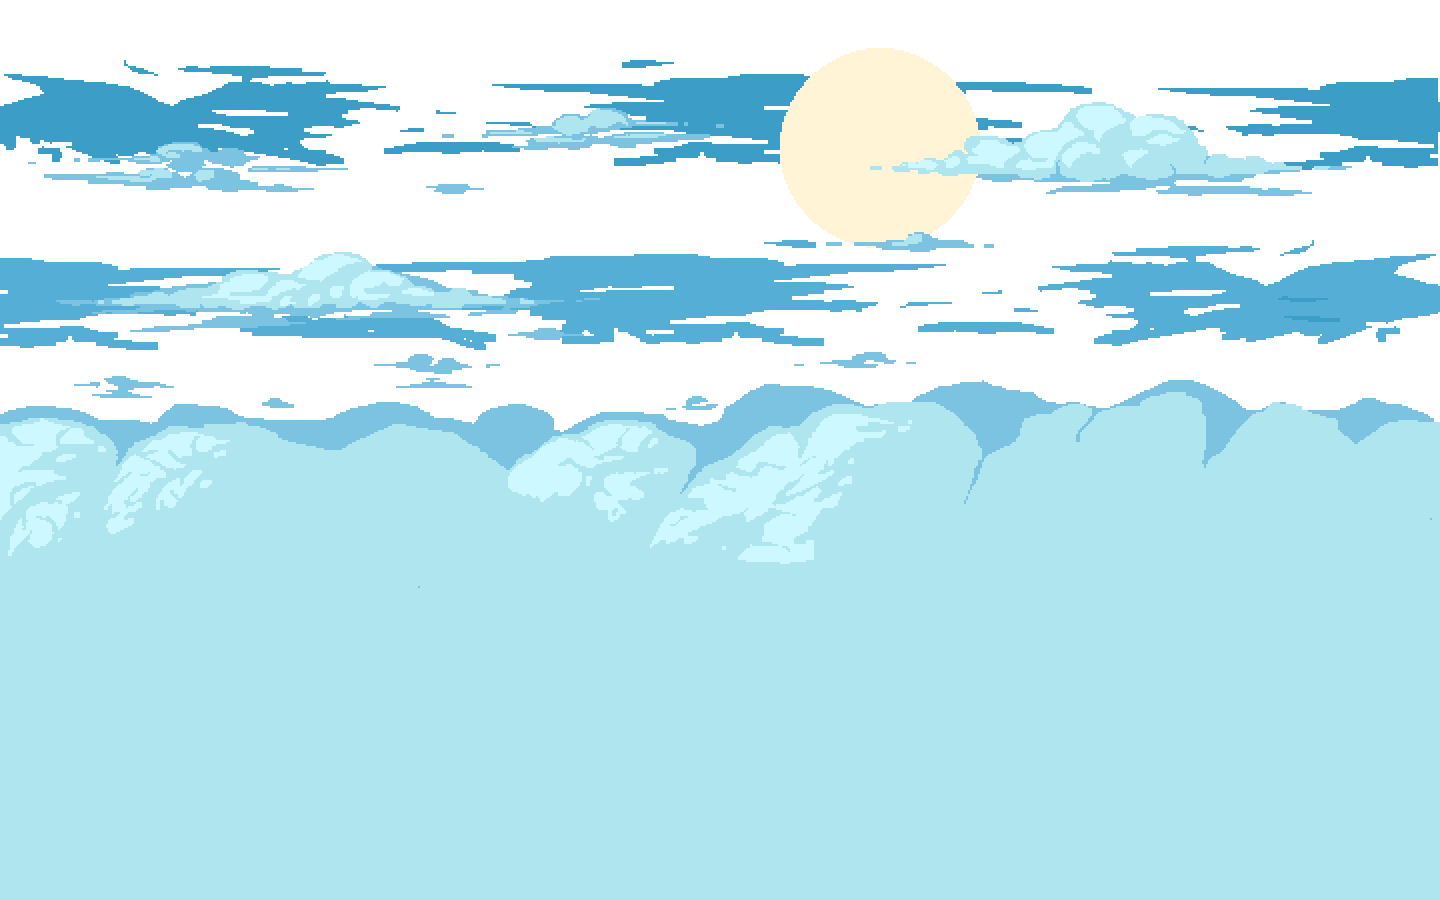
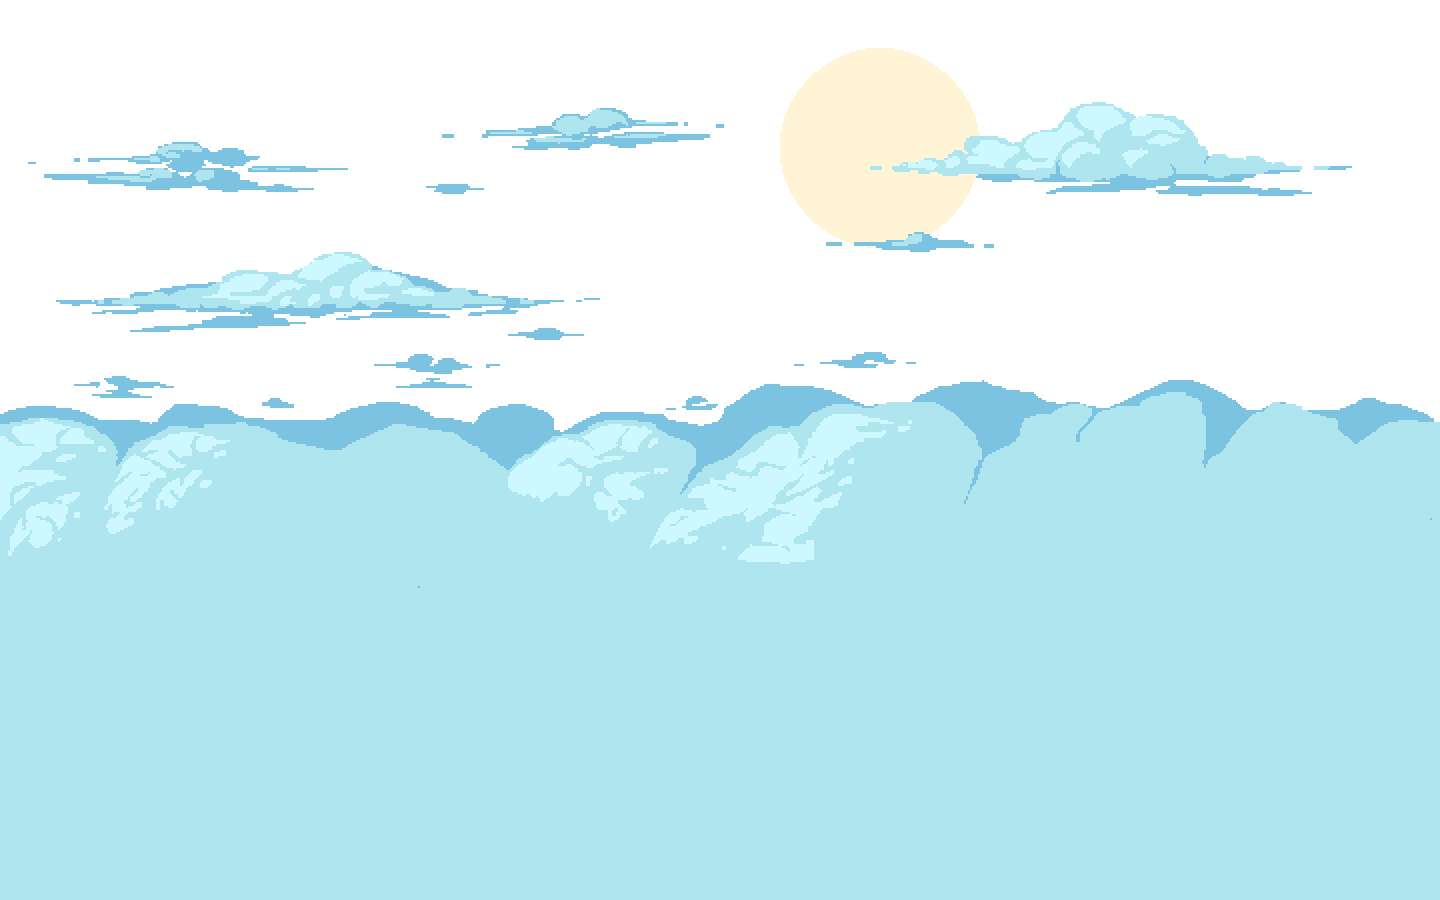
Some changes

diff --git a/Classes/MainScene.cpp b/Classes/MainScene.cpp
@@ -8,6 +8,9 @@
 #include "IdleBehaviour.h"
 #include "Enemy.h"
 
+#include "imgui/CCIMGUIGLViewImpl.h"
+#include "imgui/CCImGuiLayer.h"
+#include "imgui/CCIMGUI.h"
 USING_NS_CC;
 
 Player* MainScene::getPlayer() {
@@ -32,6 +35,21 @@ bool MainScene::init() {
     const auto visibleSize = Director::getInstance()->getVisibleSize();
     const Vec2 origin = Director::getInstance()->getVisibleOrigin();
 
+    _background = Sprite::create("images/Sky1.png");
+    _background1 = Sprite::create("images/Sky2.png");
+    _background1->setScaleX(1.2);
+    _background2 = Sprite::create("images/Mounts1.png");
+    _background2->setScaleX(1.35);
+    _background3 = Sprite::create("images/Mounts2.png");
+    _background3->setScaleX(1.5);
+    addChild(_background);
+    addChild(_background1);
+    addChild(_background2);
+    addChild(_background3);
+    _background->setPosition({ 9000, 24000 });
+    _background1->setPosition({ 9000, 24000 });
+    _background2->setPosition({ 9000, 24000 });
+    _background3->setPosition({ 9000, 24000 });
     //DrawNode* background = DrawNode::create();
     //background->drawSolidRect(origin-backSize, Director::getInstance()->getVisibleSize() + Size(backSize), Color4F(1, 1, 1, 1));
     //addChild(background);
@@ -66,7 +84,6 @@ bool MainScene::init() {
     _firstTileMap->addLayer("ObjectLayer", "ObjectLayer");
     _firstTileMap->CollidableLayerInit(_world, _firstTileMap->getLayerByName("Collidable"));
     _firstTileMap->TileMapObjectLayerInit(_world);
-
     //_firstTileMap->TileMapBackgroundLayerInit(smth, _firstTileMap->getLayerByName("FG"));
 
     //Creating player
@@ -107,6 +124,15 @@ bool MainScene::init() {
 
     CCIMGUI::getInstance()->addImGUI([=]() {
         showImGui(); }, "Function ID");
+
+    Director::getInstance()->getScheduler()->schedule([=](float dt)
+        {
+            auto runningScene = Director::getInstance()->getRunningScene();
+            if (runningScene && !runningScene->getChildByName("ImGUILayer"))
+            {
+                runningScene->addChild(ImGuiLayer::create(), INT_MAX, "ImGUILayer");
+            }
+        }, this, 0, false, "checkIMGUI");
 
     scheduleUpdate();
 
@@ -179,6 +205,13 @@ void MainScene::update(float dt) {
         const auto playerHp = _player->getHp();
         _hud->setHp(playerHp);
         const auto cameraPos = _player->getPosition();
+        _background->setPosition(cameraPos);
+        _background1->setPositionX(cameraPos.x+(9000-cameraPos.x)/115);
+        _background1->setPositionY(cameraPos.y);
+        _background2->setPositionX(cameraPos.x+(9000-cameraPos.x)/65);
+        _background2->setPositionY(cameraPos.y);
+        _background3->setPositionX(cameraPos.x + (9000 - cameraPos.x) / 45);
+        _background3->setPositionY(cameraPos.y);
         _cameraTarget->setPosition(cameraPos);
     }
 

diff --git a/Classes/player/Player.cpp b/Classes/player/Player.cpp
@@ -268,7 +268,7 @@ void Player::keyPressed(cocos2d::EventKeyboard::KeyCode keyCode, cocos2d::Event*
 				scaleX *= -1;
 				setScaleX(scaleX);
 			}
-			_stepSound = CocosDenshion::SimpleAudioEngine::getInstance()->playEffect("sounds/Step.mp3");
+			//_stepSound = CocosDenshion::SimpleAudioEngine::getInstance()->playEffect("sounds/Step.mp3");
 			break;
 		}
 		case EventKeyboard::KeyCode::KEY_A:
@@ -280,7 +280,7 @@ void Player::keyPressed(cocos2d::EventKeyboard::KeyCode keyCode, cocos2d::Event*
 				scaleX *= -1;
 				setScaleX(scaleX);
 			}
-			_stepSound = CocosDenshion::SimpleAudioEngine::getInstance()->playEffect("sounds/Step.mp3");
+			//_stepSound = CocosDenshion::SimpleAudioEngine::getInstance()->playEffect("sounds/Step.mp3");
 			break;
 		}
 		case EventKeyboard::KeyCode::KEY_SPACE:
@@ -383,10 +383,10 @@ void Player::changeBulletCreator(IBulletTypeCreator* bulletCreator) {
 
 void Player::move(float dt) {
 	if (getBody()->GetLinearVelocity().x < _maxSpeed && _curSpeed > 0) {
-		getBody()->ApplyLinearImpulseToCenter({ _curSpeed * 60 * dt, 0 }, true);
+		getBody()->ApplyLinearImpulseToCenter({ _curSpeed * 120 * dt, 0 }, true);
 	}
 	else if(getBody()->GetLinearVelocity().x > -_maxSpeed && _curSpeed < 0) {
-		getBody()->ApplyLinearImpulseToCenter({ _curSpeed * 60 * dt, 0 }, true);
+		getBody()->ApplyLinearImpulseToCenter({ _curSpeed * 120 * dt, 0 }, true);
 	}
 	else if (_curSpeed == 0) {
 		getBody()->SetLinearVelocity({ 0, getBody()->GetLinearVelocity().y });
@@ -423,14 +423,6 @@ void Player::jump(float dt) {
 	if (getJumpState() == eJumpState::Jump) {
 		setAnimState(eAnimState::Jump);
 		getBody()->ApplyLinearImpulseToCenter({ 0, _jumpSpeed * 60 * dt }, true);
-		/*auto posX = getPositionX();
-		auto posY = getPositionY();
-		if (!getActionByTag(10)) {
-			stopAllActions();
-			Action* jumpAction = JumpBy::create(2.0f, { 0, 0 }, 700, 1);
-			jumpAction->setTag(10);
-			runAction(jumpAction);
-		}*/
 	}
 	if (_jumpBegin == 0 && _jumpCount == 0) {
 		setJumpState(eJumpState::None);
@@ -445,10 +437,7 @@ void Player::jump(float dt) {
 }
 
 void Player::setJumpState(eJumpState state) {
-	/*if (_jumpCount == 1) {
-		_jumpBegin += _jumpHeight;
-	}*/
-	if (state == eJumpState::Jump /*&& _jumpCount == 0*/) {
+	if (state == eJumpState::Jump) {
 		_jumpBegin = getPosition().y + _jumpHeight;
 	}
 	if (state == eJumpState::None) {

diff --git a/Classes/enemies/IEnemy.cpp b/Classes/enemies/IEnemy.cpp
@@ -12,12 +12,14 @@ IEnemy::IEnemy(IEnemyBehaviour* behaviour) {
 IEnemy::~IEnemy() {
 	delete _hpLabel;
 	delete _behaviour;
-	delete _shootingPattern;
+	if (!_shootingPattern) {
+		delete _shootingPattern;
+	}
 }
 
 void IEnemy::meleeInit() {
-	_hitTime = 0.2f;
-	MeleeCharacter::_damage = 10;
+	_hitTime = 2.f;
+	MeleeCharacter::_damage = 1;
 }
 
 void IEnemy::update(float dt) {
@@ -191,6 +193,9 @@ void IEnemy::setShootingPattern(std::string shootingPatternInfo) {
 	}
 	else if (shootingPatternInfo == "ParalRev") {
 		//_shootingPattern = new ParalRevShootingPattern(this);
+	}
+	else {
+		_shootingPattern = nullptr;
 	}
 }
 

diff --git a/Classes/ui/GameOverScreen.cpp b/Classes/ui/GameOverScreen.cpp
@@ -14,7 +14,7 @@ void GameOverScreen::createLabel() {
     _text = Label::create();
     _text->setString("Restart");
     TTFConfig textConfig;
-    textConfig.fontFilePath = "fonts/arial.ttf";
+    textConfig.fontFilePath = "fonts/OptimusPrinceps.ttf";
     textConfig.fontSize = 28;
     _text->setTTFConfig(textConfig);
     _text->setPosition(origin.x + visibleSize.x / 2, origin.y + visibleSize.y / 4);

diff --git a/Classes/ui/NoticeBox.cpp b/Classes/ui/NoticeBox.cpp
@@ -17,7 +17,7 @@ void NoticeBox::printText(std::string text) {
     _textLabel = Label::create();
     _textLabel->setString(text);
     TTFConfig textConfig;
-    textConfig.fontFilePath = "fonts/arial.ttf";
+    textConfig.fontFilePath = "fonts/OptimusPrinceps.ttf";
     textConfig.fontSize = 18;
     _textLabel->setTTFConfig(textConfig);
 

diff --git a/Classes/MainScene.h b/Classes/MainScene.h
@@ -46,6 +46,9 @@ private:
     b2WorldNode* _world;
     cocos2d::Camera* _cameraTarget;
     cocos2d::Sprite* _background;
+    cocos2d::Sprite* _background1;
+    cocos2d::Sprite* _background2;
+    cocos2d::Sprite* _background3;
     HUD* _hud;
     cocos2d::DrawNode* _test;
     RayCastManager* _rayCastManager;
